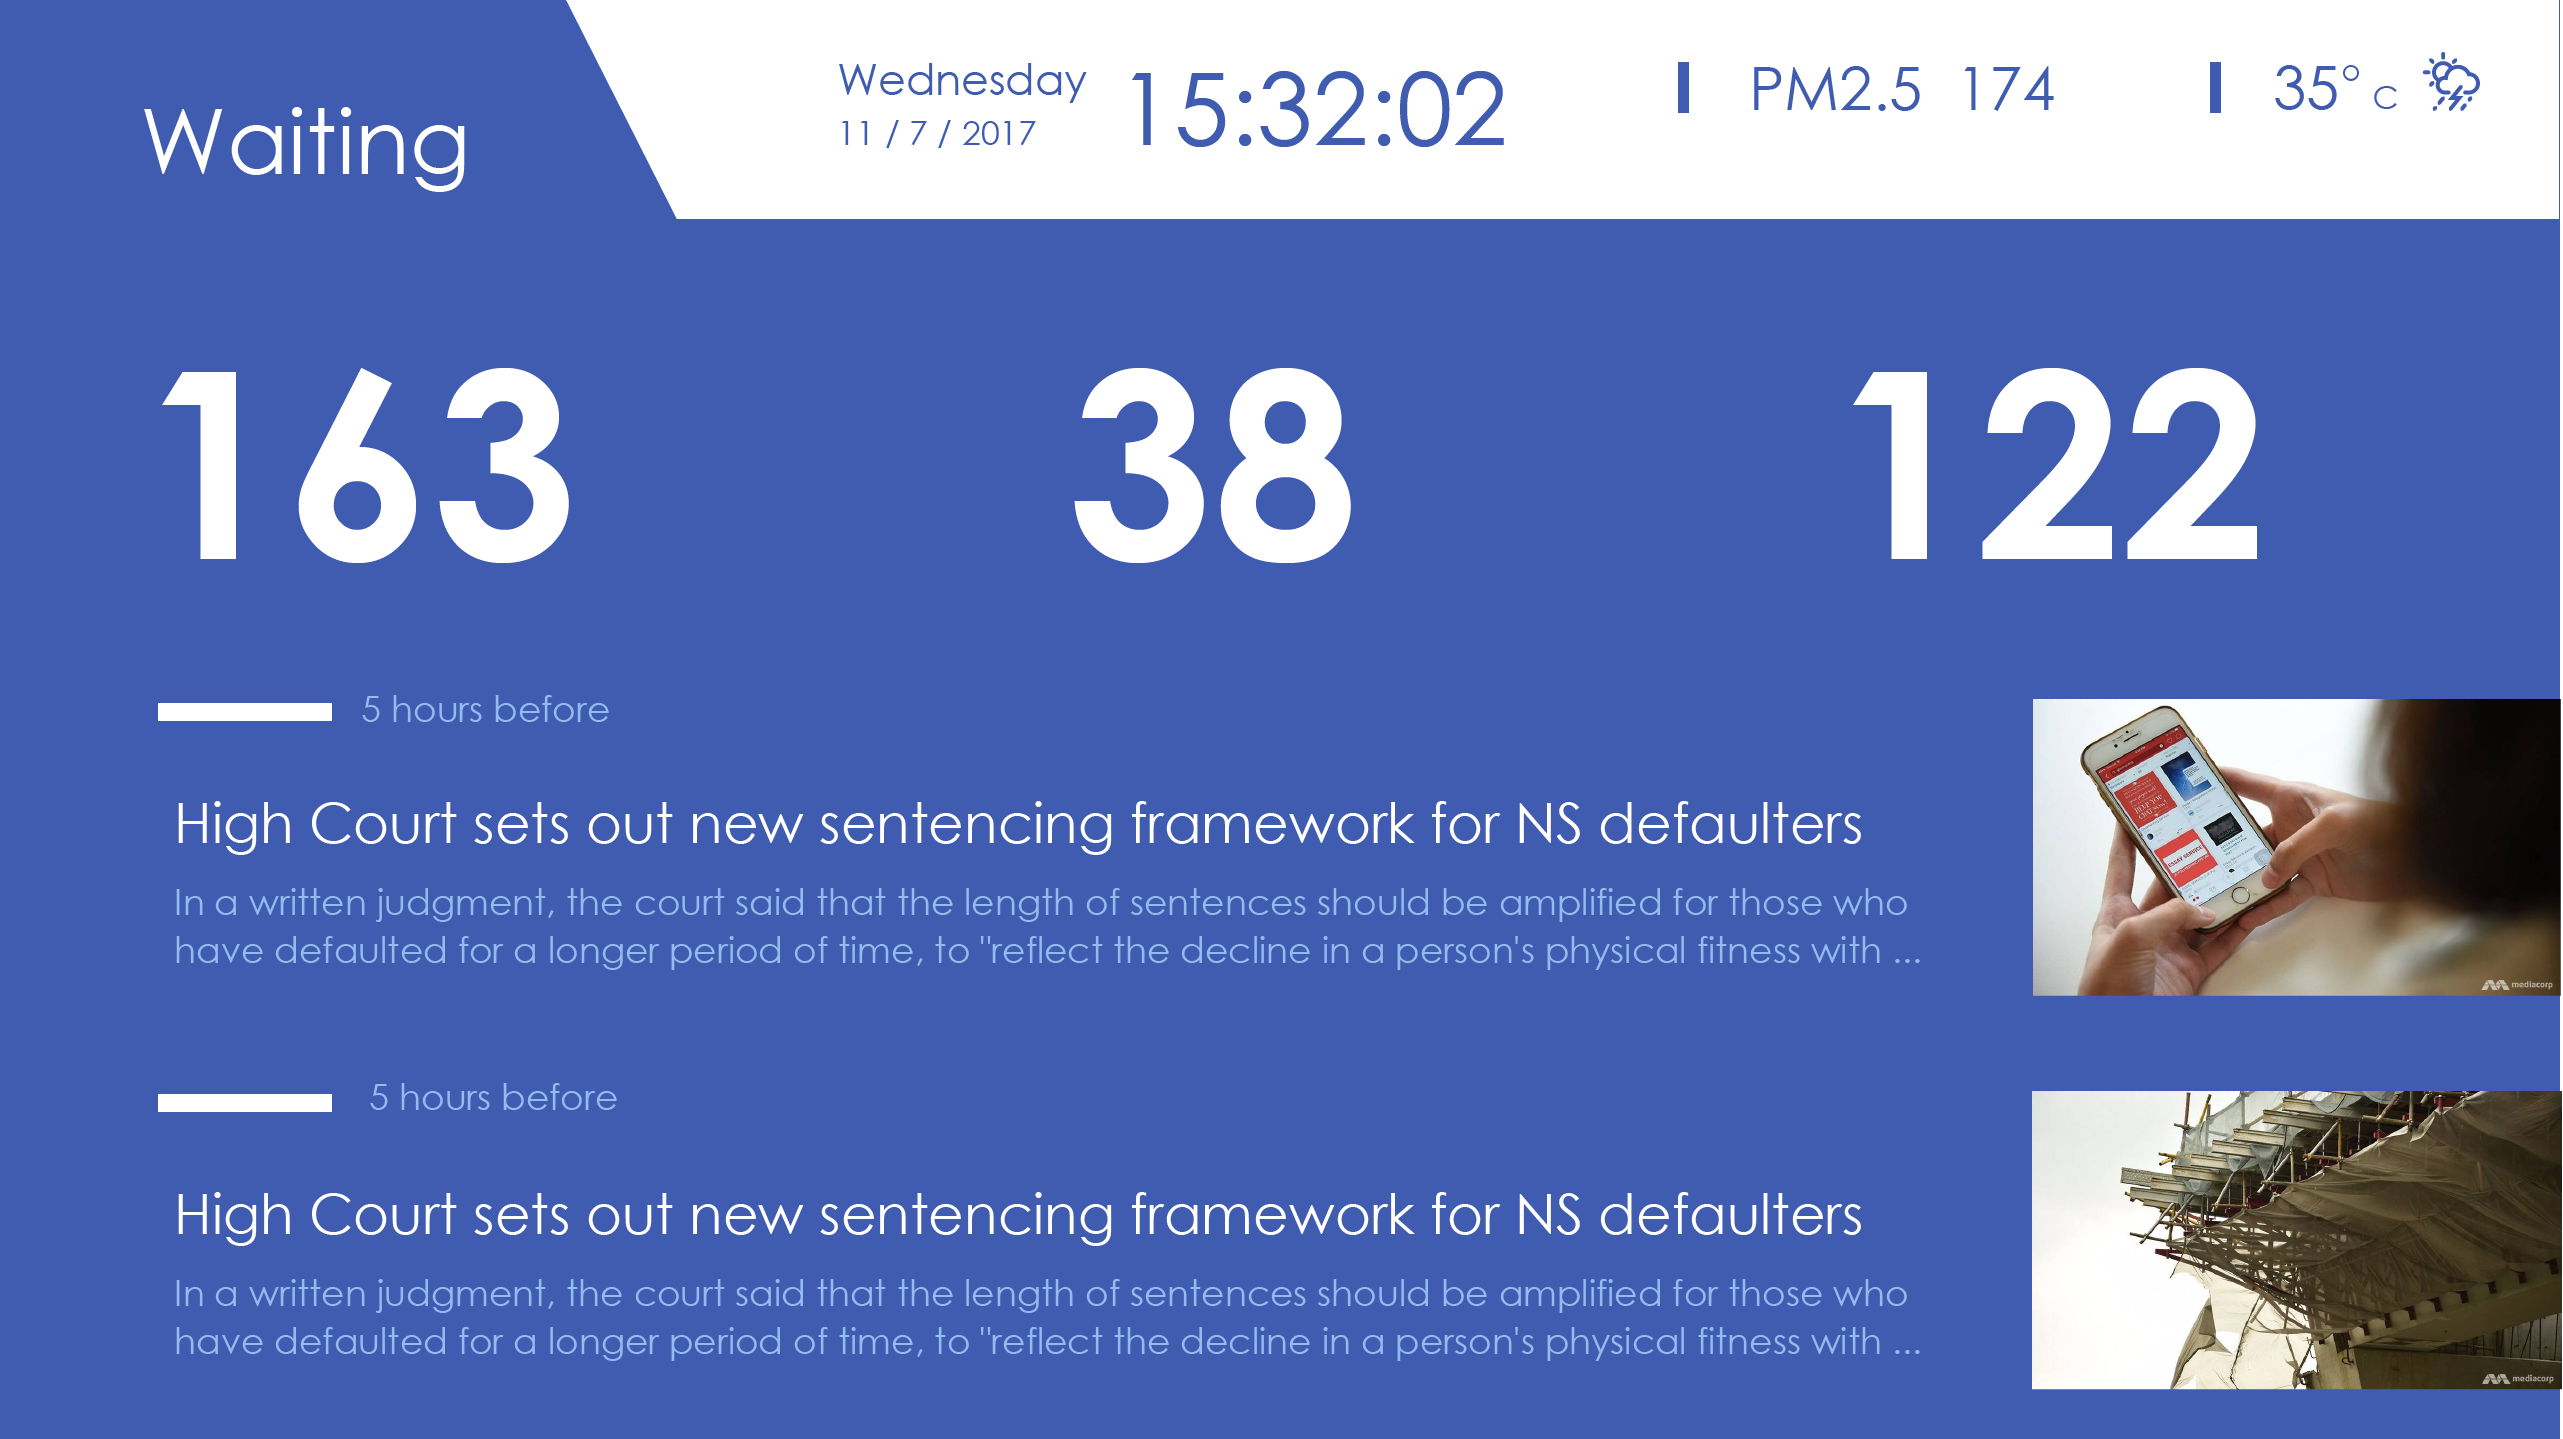
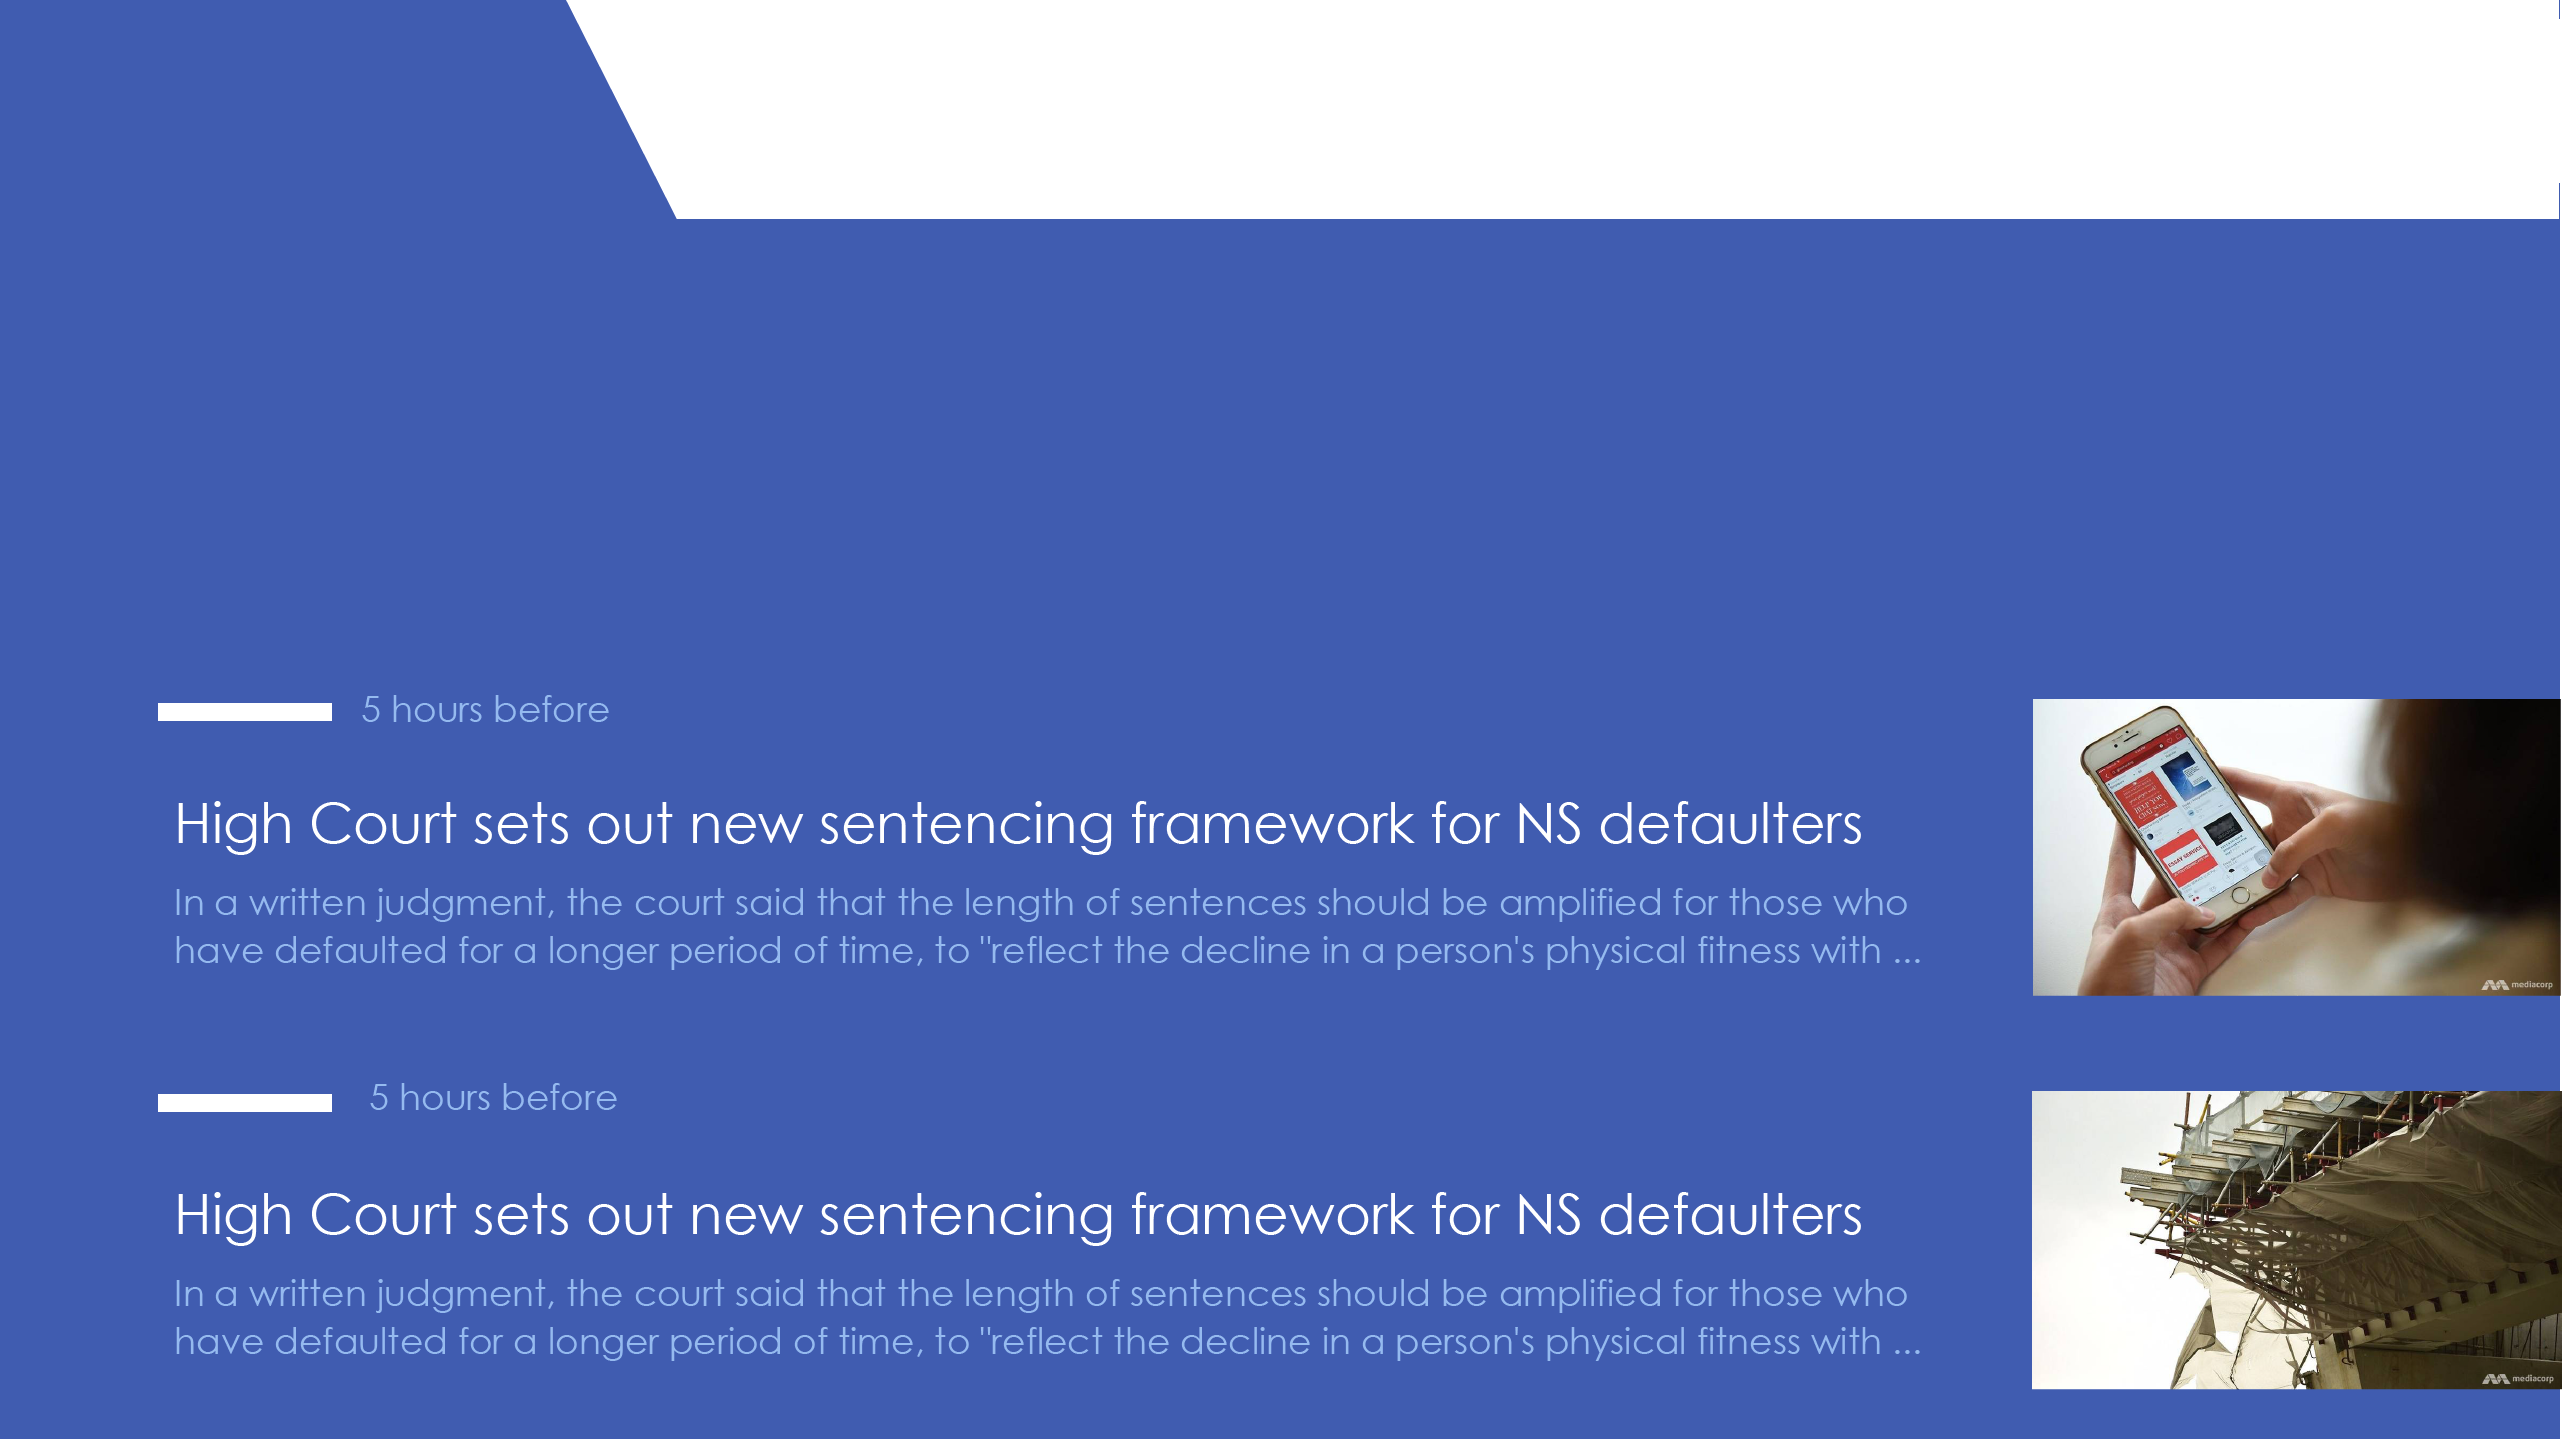
finish page2 and page3

diff --git a/css/style1.css b/css/style1.css
@@ -28,8 +28,6 @@
     color: #405CB0;
     width: 2560px;
     height: 1440px;
-    background-size: 2560px 1440px;
-    /*background: url("../img/img1 - copy.png") no-repeat;*/
 }
 
 .container .station_name {
@@ -92,7 +90,7 @@
 }
 
 .container .daily_info {
-    width: 1600px;
+    width: 1640px;
     height: 200px;
     position: absolute;
     left: 829px;
@@ -101,19 +99,20 @@
     border-left: solid 45px;
 }
 
-.container .daily_info .date {
+/*.container .daily_info 公用*/
+.date {
     float: left;
 }
 
-.container .daily_info .date .weekday {
+.date .weekday {
     font-size: 43px;
 }
 
-.container .daily_info .date .date_date {
+.date .date_date {
     font-size: 38px;
 }
 
-.container .daily_info .date_time {
+.date_time {
     float: left;
     position: relative;
     left: 30px;
@@ -121,7 +120,7 @@
     font-size: 100px;
 }
 
-.container .daily_info .pm {
+.pm {
     height: 52px;
     width: 478px;
     float: left;
@@ -137,28 +136,140 @@
     margin-top: -11px;
 }
 
-.container .daily_info .pm .pm_left {
+.pm .pm_left {
     padding-left: 60px;
 }
 
-.container .daily_info .pm .pm_right {
+.pm .pm_right {
     float: right;
     margin-right: 88px;
 }
 
-.container .daily_info .temp {
+.temp {
     float: right;
     position: relative;
     right: 12px;
     font-size: 60px;
 }
 
+/* .end.. */
+
 .weather_icon {
     margin-left: 15px;
 }
 
-.bg_img {
+.container .bg_img {
     float: right;
     position: relative;
     top: 251px;
 }
+
+.container .map, .container .iframe {
+    width: 1732px;
+    height: 1440px;
+    float: right;
+}
+
+/* PAGE 3 */
+.page3_header {
+    height: 220px;
+}
+
+.page3_header .header_left {
+    width: 680px;
+    height: 100%;
+    float: left;
+    font-size: 90px;
+    background-color: #405CB0;
+}
+
+.page3_header .header_left .header_left_content {
+    position: relative;
+    top: 86px;
+    left: 140px;
+    color: white;
+}
+
+.page3_header .header_right {
+    float: left;
+    font-size: 80px;
+    width: 1640px;
+    position: relative;
+    top: 54px;
+    left: 154px;
+}
+
+.page3_content {
+    background-color: #405CB0;
+}
+
+.waiting_queue {
+    width: 2800px;
+    height: 420px;
+    color: white;
+    position: relative;
+    left: 140px;
+}
+
+.waiting_queue .waiting_bus {
+    width: 445px;
+    margin-top: 80px;
+    float: left;
+    font-size: 265px;
+    font-weight: bold;
+    margin-right: 400px;
+}
+
+.body_news {
+    height: 800px;
+    width: 100%;
+}
+
+.body_news .news_piece {
+    height: 400px;
+    width: 100%;
+}
+
+.news_piece .piece_left {
+    height: 100%;
+    float: left;
+    margin-left: 160px;
+    position: relative;
+    top:50px;
+    width: 1780px;
+}
+
+.piece_left .line{
+    height:10px;
+    width:175px;
+    border-bottom: 20px white solid;
+    float:left;
+}
+
+.piece_left .news_time {
+    width: 800px;
+    font-size: 35px;
+    color: lightblue;
+    margin-left: 200px;
+}
+
+.piece_left .news_title {
+    color: white;
+    font-size: 55px;
+    margin-top: 55px;
+}
+
+.piece_left .news_content {
+    color: lightblue;
+    font-size: 36px;
+    word-wrap: break-word;
+    margin-top: 25px;
+}
+
+.news_piece .piece_right {
+    width: 529px;
+    float: right;
+    position: relative;
+    top:55px;
+}
+

diff --git a/html/page3.html b/html/page3.html
@@ -1,0 +1,60 @@
+<!DOCTYPE html>
+<html lang="en">
+<head>
+    <meta charset="UTF-8">
+    <title>Title</title>
+    <script src="https://cdn.bootcss.com/angular.js/1.4.6/angular.min.js"></script>
+    <script src="../js/js1.js"></script>
+    <link rel="stylesheet" href="../css/style1.css">
+</head>
+<body class="container" ng-app="myApp" ng-controller="myCtrl">
+<div class="page3_header">
+    <div class="header_left">
+        <div class="header_left_content">Waiting</div>
+    </div>
+    <div class="header_right">
+
+        <div class="date">
+            <div class="weekday">
+                {{time | date:"EEEE"}}
+            </div>
+            <div class="date_date">
+                {{time | date:"MM/dd/yyyy"}}
+            </div>
+        </div>
+        <div class="date_time">
+            {{time | date:"HH:mm:ss"}}
+        </div>
+        <div class="pm">
+            <p class="pm_p">
+                <span class="pm_left">PM2.5</span><span class="pm_right">{{pm}}</span>
+            </p>
+        </div>
+        <div class="temp">
+            {{temp}}° c<img src="../img/weather_icon.png" class="weather_icon">
+        </div>
+
+    </div>
+</div>
+<div class="page3_content">
+    <div class="waiting_queue">
+        <div class="waiting_bus" ng-repeat="bus in buses | orderBy:'time' | limitTo:3">
+            <span style="float: right">{{bus.name}}</span>
+        </div>
+    </div>
+    <div class="body_news">
+        <div ng-repeat="info in news" class="news_piece">
+            <div class="piece_left">
+                <div class="line"></div>
+                <div class="news_time">{{info.time}} hours before</div>
+                <div class="news_title">{{info.title}}</div>
+                <div class="news_content">{{info.content}}</div>
+            </div>
+            <div class="piece_right">
+                <img src="{{info.imgUrl}}">
+            </div>
+        </div>
+    </div>
+</div>
+</body>
+</html>

diff --git a/js/js1.js b/js/js1.js
@@ -1,12 +1,12 @@
 var app = angular.module('myApp', []);
-app.controller('myCtrl', function($scope, $interval) {
+app.controller('myCtrl', function ($scope, $interval, $sce) {
     $scope.stationName = "Potong Pasir Stn";
     $scope.buses = [
-        {"name":"197", "time":"3"},
-        {"name":"225", "time":"3"},
-        {"name":"149", "time":"5"},
-        {"name":"126", "time":"7"},
-        {"name":"57", "time":"12"}
+        {"name": "197", "time": 3},
+        {"name": "25", "time": 3},
+        {"name": "149", "time": 5},
+        {"name": "126", "time": 7},
+        {"name": "57", "time": 12}
     ];
     $scope.time = new Date();
     $interval(function () {
@@ -14,4 +14,19 @@ app.controller('myCtrl', function($scope, $interval) {
     }, 1000);
     $scope.pm = 174;
     $scope.temp = 35;
+    $scope.myURL = $sce.trustAsResourceUrl("http://www.linktravel.com:8090/sense/bus");
+    $scope.news = [
+        {
+            "time": 5,
+            "title": "High Court sets out new sentencing framework for NS defaulters",
+            "content": "In a written judgment, the court said that the length of sentences should be amplified for those who have defaulted for a longer period of time, to \"reflect the decline in a person's physical fitness with ...",
+            "imgUrl":"../img/news1.png"
+        },
+        {
+            "time": 5,
+            "title": "High Court sets out new sentencing framework for NS defaulters",
+            "content": "In a written judgment, the court said that the length of sentences should be amplified for those who have defaulted for a longer period of time, to \"reflect the decline in a person's physical fitness with ...",
+            "imgUrl":"../img/news2.png"
+        }
+    ]
 });

diff --git a/html/page2.html b/html/page2.html
@@ -1,0 +1,36 @@
+<!DOCTYPE html>
+<html lang="en">
+<head>
+    <meta charset="UTF-8">
+    <title>Title</title>
+    <script src="https://cdn.bootcss.com/angular.js/1.4.6/angular.min.js"></script>
+    <script src="../js/js1.js"></script>
+    <link rel="stylesheet" href="../css/style1.css">
+</head>
+<body class="container" ng-app="myApp" ng-controller="myCtrl">
+<div class="station_name">
+    {{stationName}}
+</div>
+<img src="../img/bus_station.png" class="bus_img">
+<div class="buses">
+    <p class="bus_header">
+        <span class="bus_header_left">route</span>
+        <span class="bus_header_right">remaining time</span>
+    </p>
+    <p ng-repeat="bus in buses" class="bus_detail">
+        <span class="bus_name">
+            {{bus.name}}
+        </span>
+        <span class="bus_time">
+            {{bus.time}} min
+        </span>
+    </p>
+</div>
+<iframe src="{{myURL}}" class="iframe">
+</iframe>
+<!--<div class="map">-->
+    <!--<img src="../img/map.png">-->
+<!--</div>-->
+
+</body>
+</html>
